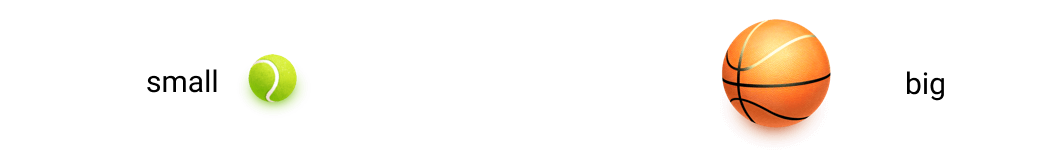
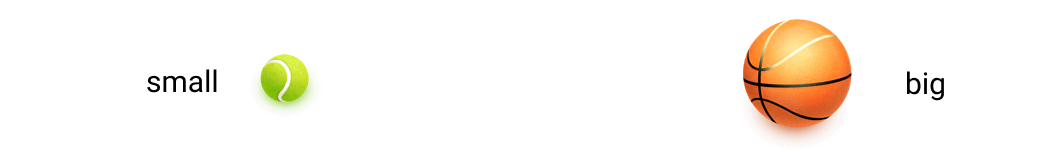
Hoàn thành chuyển màn và các chức năng cơ bản của màn hình chính thứ 2 #4

Changed region(s): [[0.6538, 0.1067, 0.8094, 0.9333], [0.2179, 0.3467, 0.3113, 0.72]]

diff --git a/Volume/Scene2.js b/Volume/Scene2.js
@@ -1,0 +1,228 @@
+
+constWeightBallGreen = 515
+let numberGame2 = 3
+let checkCorrect2 = 3
+
+class Scene2 extends Phaser.Scene{
+
+    constructor() {
+        super('Scene2');
+    }
+
+    //load image and audio;
+    preload() {
+        this.load.image('backGround', 'Assets/backGround.png')
+        this.load.image('frameWork', 'Assets/frameWork.png')
+
+        this.load.image('ballGreen', 'Assets/ballGreen.png')
+        this.load.image('speaker', 'Assets/speaker.png')
+
+        this.load.image('ballGroup2', 'Assets/2/ballGroup2.png')
+        this.load.image('bearBuleGroup2', 'Assets/2/bearBuleGroup2.png')
+        this.load.image('gatoGroup2', 'Assets/2/gatoGroup2.png')
+
+        this.load.image('button1', 'Assets/button1.png')
+        this.load.image('button2', 'Assets/button2.png')
+        this.load.image('button3', 'Assets/button3.png')
+        this.load.image('frameButton', 'Assets/frameButton.png')
+
+        this.load.image('StartSheet', 'Assets/StartSheet.png')
+        this.load.image('startButton1', 'Assets/startButton1.png')
+        this.load.image('startButton2', 'Assets/startButton2.png')
+
+        this.load.image('image2', 'Assets/image2.png')
+    }
+
+    //create game;
+    create(){
+        this.backGround = this.add.image(0, 0, 'backGround').setOrigin(0, 0)
+        this.frameWork = this.add.image(250, 20, 'frameWork').setOrigin(0, 0)
+
+        let arr = new Array("ballGreen");
+        for(let i = 0; i < ballNumber; i++){
+            arr[i] = this.add.image(constWeightBallGreen += 25, 38, "ballGreen").setOrigin(0, 0);
+        }
+
+        this.scene1()
+    }
+
+    buttonGroup(a, b){
+        this.frameButton = this.add.sprite(a, b, 'frameButton')
+
+        this.button1 = this.add.sprite(a - 90, b + 15, 'button1').setInteractive()
+        this.button1.on('pointerup', () => { this.handleWrong(this.button1) })
+
+        this.button2 = this.add.sprite(a + 90, b + 15, 'button2').setInteractive()
+        this.button2.on('pointerup', () => { this.handleCorrect(this.button2) })
+
+        this.button3 = this.add.sprite(a, b + 15, 'button3').setInteractive()
+        this.button3.on('pointerup', () => { this.handleWrong(this.button3) })
+
+        this.input.on('gameobjectover', function (pointer, gameObject) {
+            gameObject.setTint(0xFFC400)
+        })
+
+        this.input.on('gameobjectout', function (pointer, gameObject) {
+            gameObject.clearTint()
+        })
+    }
+
+    startButton(){
+        this.StartSheet = this.add.image(250, 80, 'StartSheet').setOrigin(0, 0)
+
+        this.startButton1 = this.add.image(660, 200, 'startButton1').setOrigin(0, 0)
+        this.startButton1.setInteractive().on('pointerover', () => {
+            this.startButton1.destroy()
+
+            this.startButton2 = this.add.image(625, 175, 'startButton2').setOrigin(0, 0)
+            this.startButton2.setInteractive().on('pointerup', () => {
+                this.StartSheet.destroy()
+                this.startButton2.destroy()
+                this.guide1()
+            })
+            this.startButton2.on('pointerout', () =>{
+                this.StartSheet.destroy()
+                this.startButton2.destroy()
+                this.startButton1.destroy()
+                this.startButton();
+            })
+        })
+
+    }
+
+    handleCorrect(button){
+        button.setTint(0x7BD400)
+        this.deleteImage()
+        numberGame2--
+        checkCorrect2--
+        var temp = -(115/65)*button.x + button.y
+
+        this.time.delayedCall(50, function wrong() {
+            button.y -= 11.5
+            button.x = (button.y - temp)/(115/65)
+            this.time.delayedCall(50, function wrong() {
+                button.y -= 11.5
+                button.x = (button.y - temp)/(115/65)
+                this.time.delayedCall(50, function wrong() {
+                    button.y -= 11.5
+                    button.x = (button.y - temp)/(115/65)
+                    this.time.delayedCall(50, function wrong() {
+                        button.y -= 11.5
+                        button.x = (button.y - temp)/(115/65)
+                        this.time.delayedCall(50, function wrong() {
+                            button.y -= 11.5
+                            button.x = (button.y - temp)/(115/65)
+                            this.time.delayedCall(50, function wrong() {
+                                button.y -= 11.5
+                                button.x = (button.y - temp)/(115/65)
+                                this.time.delayedCall(50, function wrong() {
+                                    button.y -= 11.5
+                                    button.x = (button.y - temp)/(115/65)
+                                    this.time.delayedCall(50, function wrong() {
+                                        button.y -= 11.5
+                                        button.x = (button.y - temp)/(115/65)
+                                        this.time.delayedCall(50, function wrong() {
+                                            button.y -= 11.5
+                                            button.x = (button.y - temp)/(115/65)
+                                            this.time.delayedCall(50, function wrong() {
+                                                button.y -= 11.5
+                                                button.x = (button.y - temp)/(115/65)
+                                                this.time.delayedCall(500, function wrong() {
+                                                    this.add.image(button.x - 20, button.y, 'image2')
+                                                    button.destroy()
+                                                    this.time.delayedCall(500, function wrong() {
+                                                        if(numberGame2 == 2){
+                                                            this.guide2()
+                                                        }
+                                                        else if(numberGame2 == 1){
+                                                            this.guide3()
+                                                        }
+                                                        else if(numberGame2 == 0 && checkCorrect2 == 0){
+                                                            this.scene.start('Scene3')
+                                                        }
+                                                        else{
+                                                            constWeightBallGreen = 515
+                                                            numberGame2 = 3
+                                                            checkCorrect2 = 3
+                                                            this.scene.start('Scene2')
+                                                        }
+                                                    }, [], this)
+                                                }, [], this)
+                                            }, [], this)
+                                        }, [], this)
+                                    }, [], this)
+                                }, [], this)
+                            }, [], this)
+                        }, [], this)
+                    }, [], this)
+                }, [], this)
+            }, [], this)
+        }, [], this)
+
+    }
+
+    animationButton(){
+
+    }
+
+    handleWrong(button){
+        checkCorrect2++
+        button.setTint(0xFF283D)
+
+        this.time.delayedCall(500, function wrong() {
+            button.setTint(0xFFC400);
+            this.time.delayedCall(5, function wrong() {
+                button.clearTint();
+            }, [], this)
+        }, [], this)
+
+    }
+
+    scene1(){
+        this.startButton()
+    }
+
+    guide1() {
+
+        this.time.delayedCall(500, function wrong() {
+            this.ballGroup2 = this.add.image(250, 90, 'ballGroup2').setOrigin(0, 0)
+            this.time.delayedCall(500, function wrong() {
+                this.buttonGroup(800, 280)
+            }, [], this)
+        }, [], this)
+
+    }
+
+    guide2() {
+        this.time.delayedCall(500, function wrong() {
+            this.bearBuleGroup2 = this.add.image(250, 240, 'bearBuleGroup2').setOrigin(0, 0)
+            this.time.delayedCall(500, function wrong() {
+                this.buttonGroup(800,430)
+            }, [], this)
+        }, [], this)
+
+    }
+
+    guide3(){
+        this.time.delayedCall(500, function wrong() {
+            this.gatoGroup2 = this.add.image(250, 400, 'gatoGroup2').setOrigin(0, 0)
+            this.time.delayedCall(500, function gude2() {
+                this.buttonGroup(800,590)
+            }, [], this)
+        }, [], this)
+    }
+
+    deleteImage(){
+        this.frameButton.destroy();
+        this.button1.destroy();
+        //this.button2.destroy();
+        this.button3.destroy();
+    }
+
+    //Update;
+    update(){
+
+    }
+
+}
+

diff --git a/Volume/Index.html b/Volume/Index.html
@@ -6,6 +6,8 @@
 
     <script type = "text/javascript" src = "Scene1.js"></script>
 
+    <script type = "text/javascript" src = "Scene2.js"></script>
+
     <script type = "text/javascript" src = "game.js"></script>
 </head>
 <body>

diff --git a/Volume/game.js b/Volume/game.js
@@ -5,7 +5,7 @@ const config = {
 	height: 770,
 	parent: 'phaser-game',
 	background: 0x000000,
-	scene: [Scene1]
+	scene: [Scene1, Scene2]
 };
 
 let game = new Phaser.Game(config);
